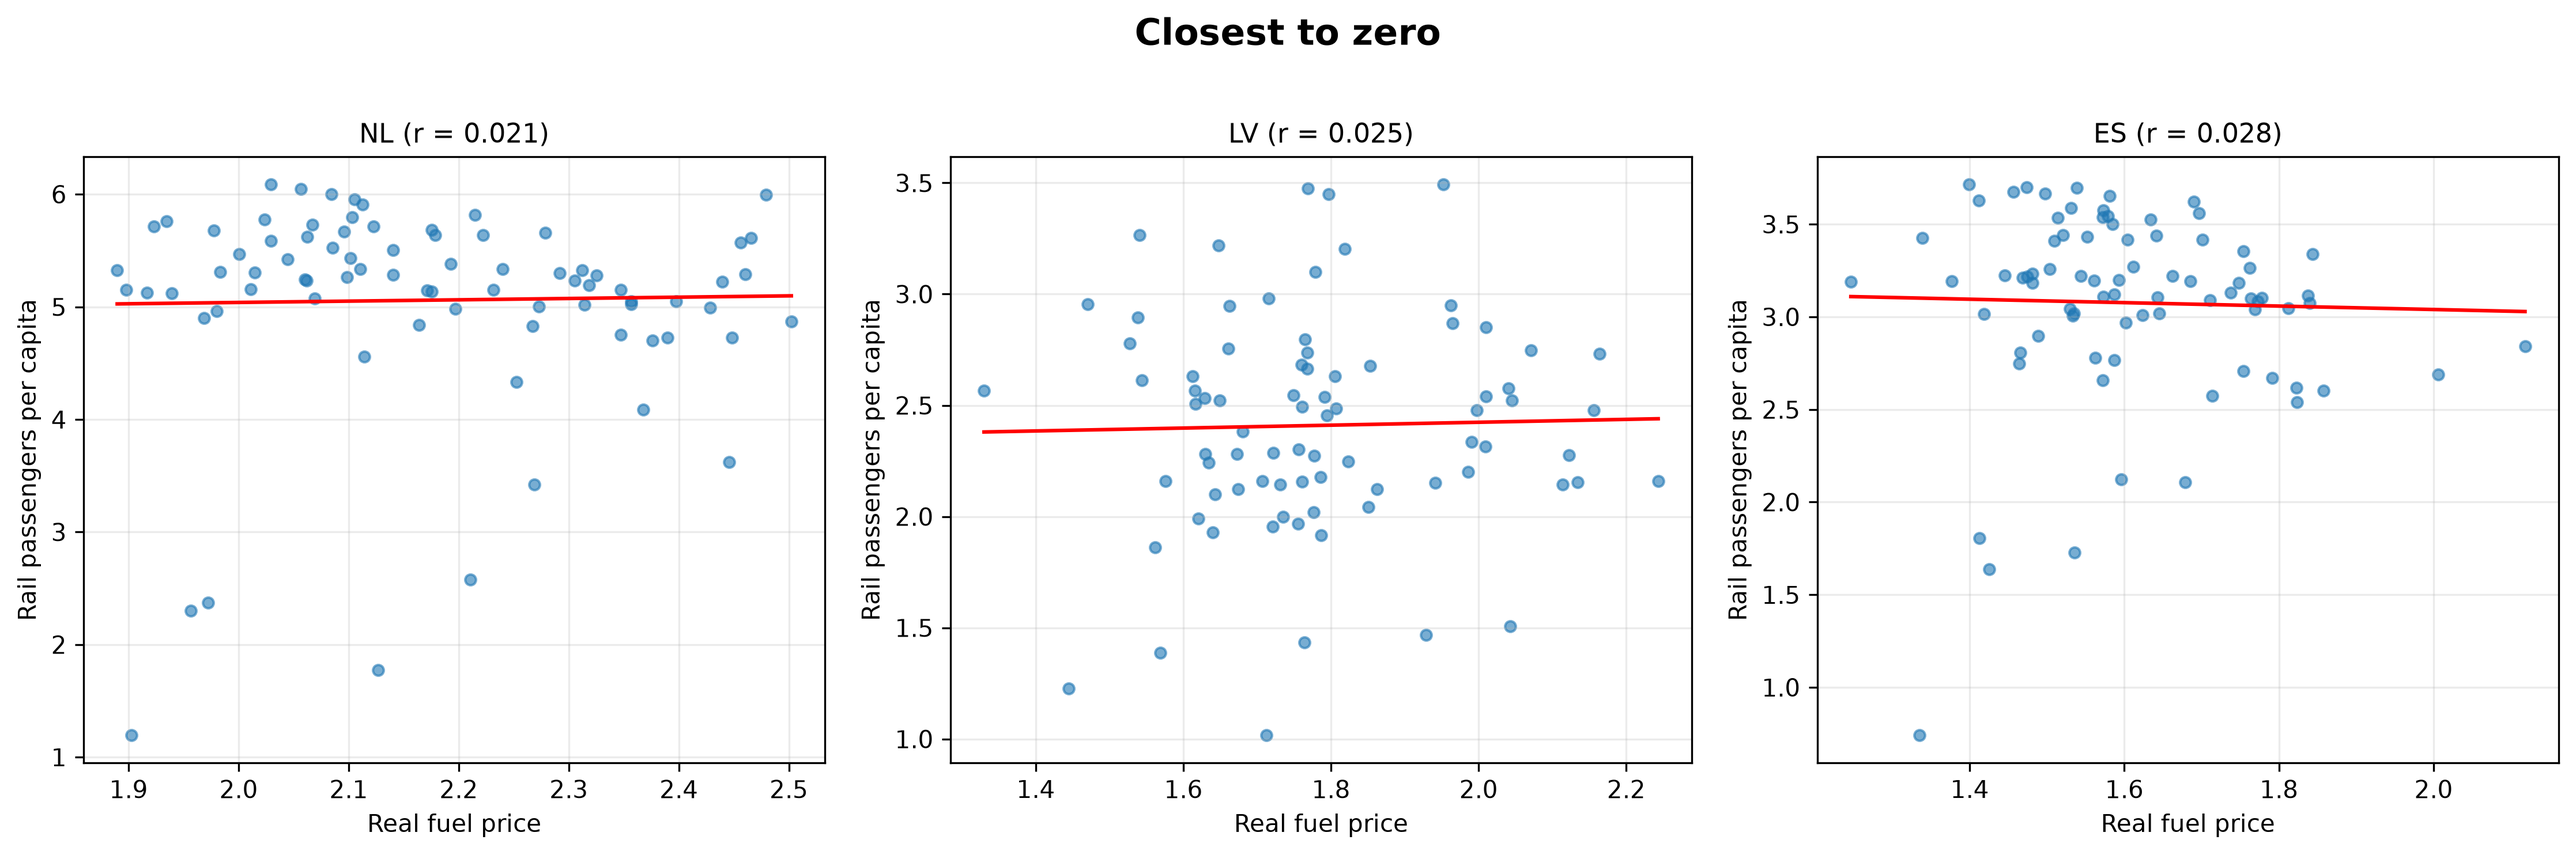
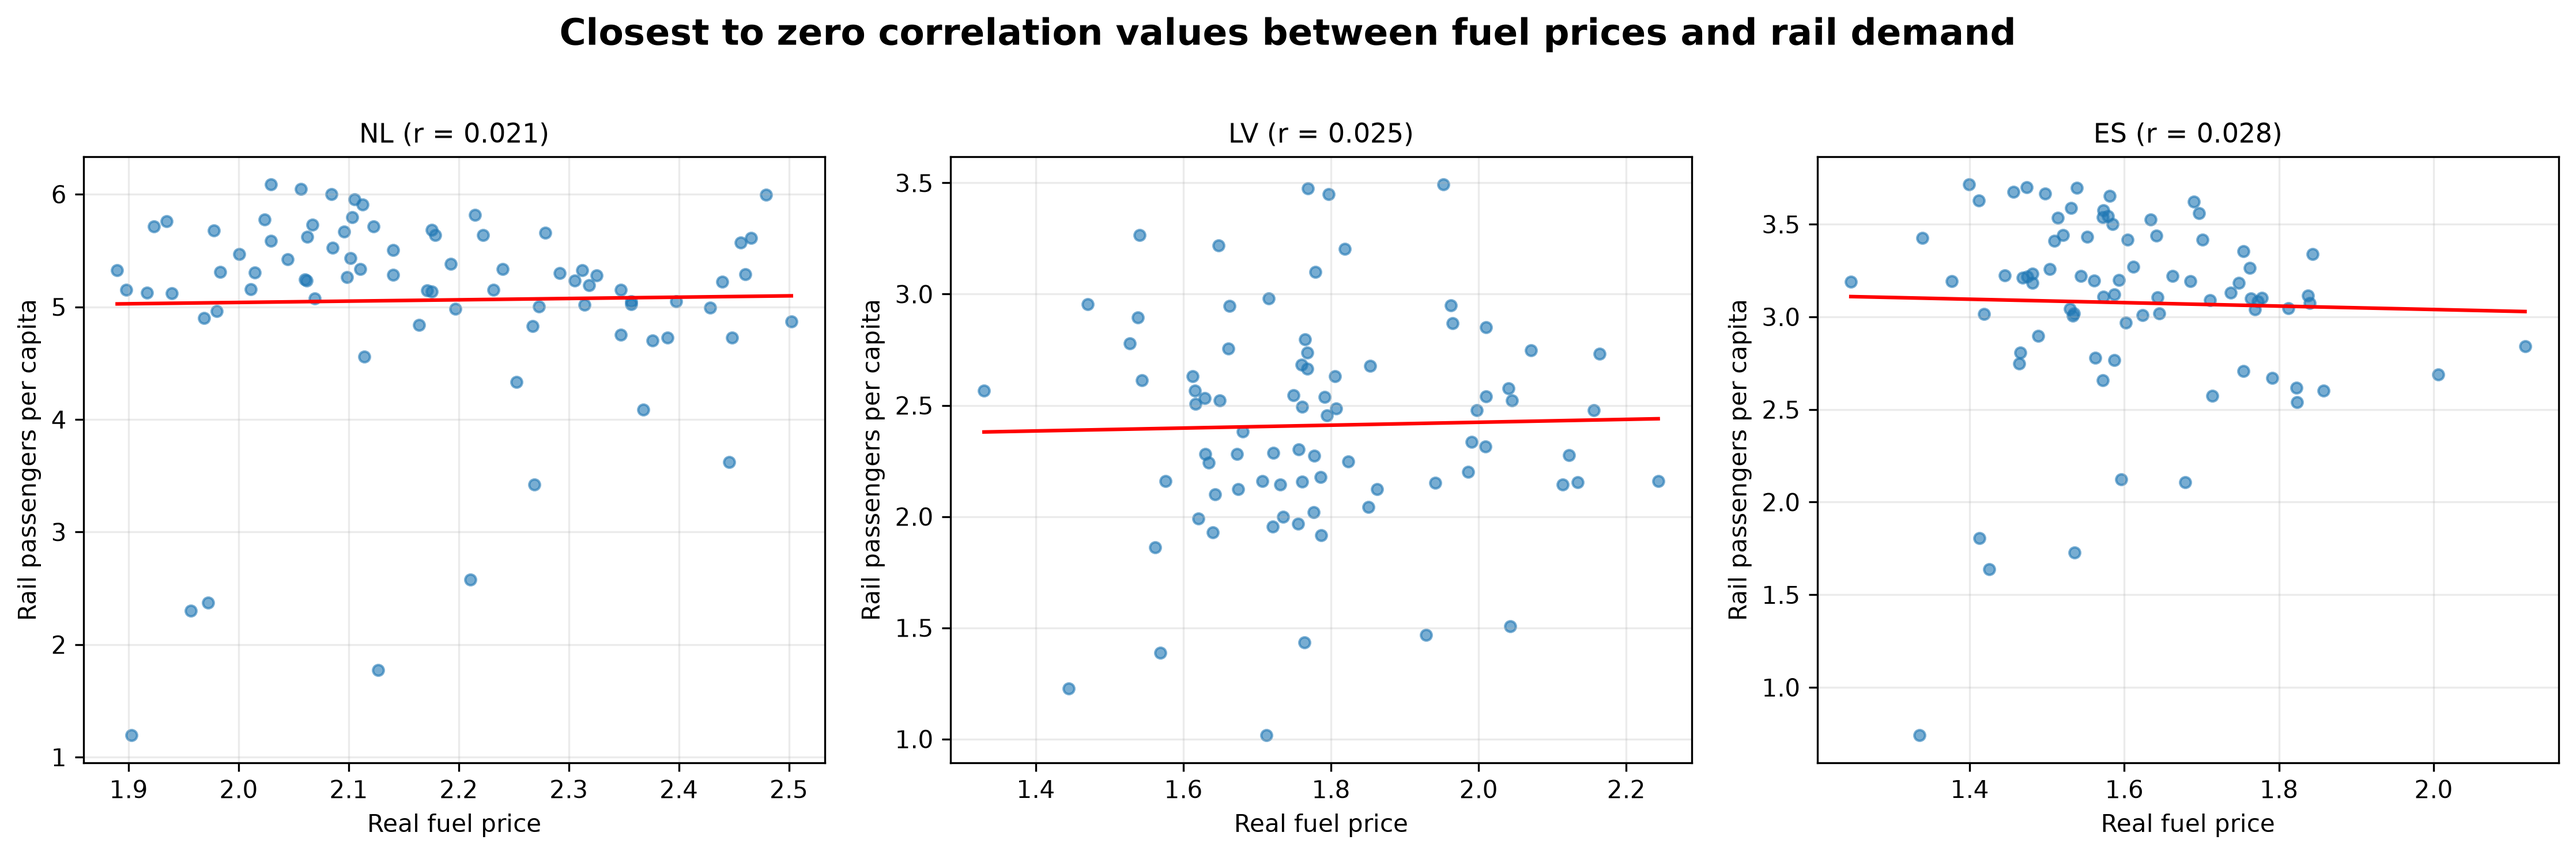
Final changes and checks

Changed region(s): [[0.2177, 0.0, 0.7776, 0.062]]

diff --git a/project_group8.py b/project_group8.py
@@ -199,9 +199,9 @@ def plot_correlation_groups(rail_data, fuel_data, n=3):
     correlation = rail_data.corrwith(fuel_data, axis=1).dropna()
 
     # Select countries for each group
-    groups = {"Most positive": correlation.nlargest(n),
-        "Most negative": correlation.nsmallest(n),
-        "Closest to zero": correlation.abs().nsmallest(n)}
+    groups = {"Most positive correlation values between fuel prices and rail demand": correlation.nlargest(n),
+        "Most negative correlation values between fuel prices and rail demand": correlation.nsmallest(n),
+        "Closest to zero correlation values between fuel prices and rail demand": correlation.abs().nsmallest(n)}
     
     output_folder = "images"
     os.makedirs(output_folder, exist_ok=True)
@@ -233,7 +233,7 @@ def plot_correlation_groups(rail_data, fuel_data, n=3):
 
         fig.suptitle(group_name, fontsize=15, fontweight="bold")
         fig.tight_layout(rect=[0, 0, 1, 0.96], h_pad=2.5, w_pad=1.5)
-        filename = group_name.lower().replace(" ", "_") + ".png"
+        filename = "_".join(group_name.lower().split()[:3]) + ".png"
         fig.savefig(os.path.join(output_folder, filename), dpi=300, bbox_inches="tight")
         plt.show()
 

diff --git a/README.md b/README.md
@@ -1,4 +1,4 @@
-## Repository Group 8 README file
+## Repository Group 8 - README file
 **Authors**
 
 - S.J. (Sem) Boonstra
@@ -11,41 +11,51 @@
 
 **Branch explanation** 
 
-The main branch of the repository contains the following folders:
-- Data: It has all the downloaded datafiles (see more in section "datasets")
-- Images: All the output images from the code that are used in the final report
+This repository contains the following folders:
+- **Data/**: Contains all downloaded datasets used in the analysis (see more in the "Datasets" section).
+- **Images/**: Contains all output figures from the analysis and used in the final report.
 
-Then in the main folder there are also the following separate files:
-- final notebook: The final report in notebook format
-- group8_project_proposal: The project proposal
-- project_group8: The complete code for the whole assignment. It is well structured using comments and functions and includes all code used.
-- This README file
+The root directory also contain the following files:
+- **final_notebook.ipynb**: The final report in Jupyter Notebook format.
+- **group8_project_proposal.ipynb**: The project proposal.
+- **project_group8.py**: The complete Python script containing the data preparation, analysis and visualation pipeline. It is well structured using comments and functions and includes all code used.
+- **README.md**: This file, providing project information and instructions for reproducing the analysis.
 
-**Pipeline**
+**Data Analysis Pipeline**
 
-1. Install all neccesary packages
-2. 
+In order to reproduce the analysis and generate the outputs presented in the final report:
+1. Clone or download the repository.
+2. Ensure that Python and all required packages listed below are installed.
+3. Make sure that the original datasets are available in the Data/ folder.
+4. Open and run project_group8.py from the repositoriy's root directory.
 
-**Packages (to be installed)**
+The script reads the datasets, performs the data preparation and analysis and generates the corresponding figures. The script should be executed from the repository's root directory to ensure that the relative paths work correctly
 
-- Numpy
-- Pandas
-- matplotlib.pyplot
-- plotly.graph_objects
-- plotly.io
-- plotly.express
+**Required Packages**
+
+The following Python packages are required:
+- numpy
+- pandas
+- matplotlib
+- plotly
 - pycountry
-- statsmodels.formula.api
-- os
-- matplotlib.dates
+- statsmodels
+- openpyxl
+
+The os and matplotlib.dates modules are included with Python and Matplotlib, respectively, and do not require separate installation.
 
 **Datasets**
 
-All data is publicly available and standardized across EU countries. The analysis uses quarterly data from 2006 to 2025. Rail passenger demand is expressed per inhabitant to account for differences in country size and population changes. Since population is only available annually, the same value is used for all four quarters of a year. Fuel prices are converted to real prices by dividing by the general price index so that long-term inflation does not distort the comparison.
+All data is publicly available and standardized across EU countries. The analysis uses quarterly data from 2006 to 2025. 
+Rail passenger demand is expressed per inhabitant to account for differences in country size and population changes. Since population is only available annually, the same value is used for all four quarters of a year. 
+Fuel prices are converted to real prices by dividing by the general price index so that long-term inflation does not distort the comparison.
+The datasets used are summarised below:
 
 | Variable | Measure | Source | Frequency |
 | --- | --- | --- | --- |
 | Rail passenger demand | 1000 passengers (table rail_pa_quartal) | [Eurostat](https://ec.europa.eu/eurostat/databrowser/view/rail_pa_quartal__custom_22991950/default/table) | Quarterly |
 | Population | Population on 1 January (table demo_pjan) | [Eurostat](https://ec.europa.eu/eurostat/databrowser/view/demo_pjan__custom_22992121/default/table) | Annual |
-| Fuel prices | Petrol and diesel pump prices incl. taxes | [EU Weekly Oil Bulletin](https://energy.ec.europa.eu/data-and-analysis/weekly-oil-bulletin_en#price-developments) | Weekly (averaged to quarters) |
-| General inflation | HICP all items | [Eurostat](https://ec.europa.eu/eurostat/databrowser/view/prc_hicp_minr__custom_22993037/default/table) | Monthly (averaged to quarters) |
+| Fuel prices | Petrol and diesel pump prices incl. taxes | [EU Weekly Oil Bulletin](https://energy.ec.europa.eu/data-and-analysis/weekly-oil-bulletin_en#price-developments) | Weekly |
+| General inflation | HICP, all-items index (2025=100) | [Eurostat](https://ec.europa.eu/eurostat/databrowser/view/prc_hicp_minr__custom_24165723/default/table) | Monthly |
+
+Weekly fuel prices and monthly HICP observations are aggregated into quarterly averages for consistency with the rail passenger demand data.
